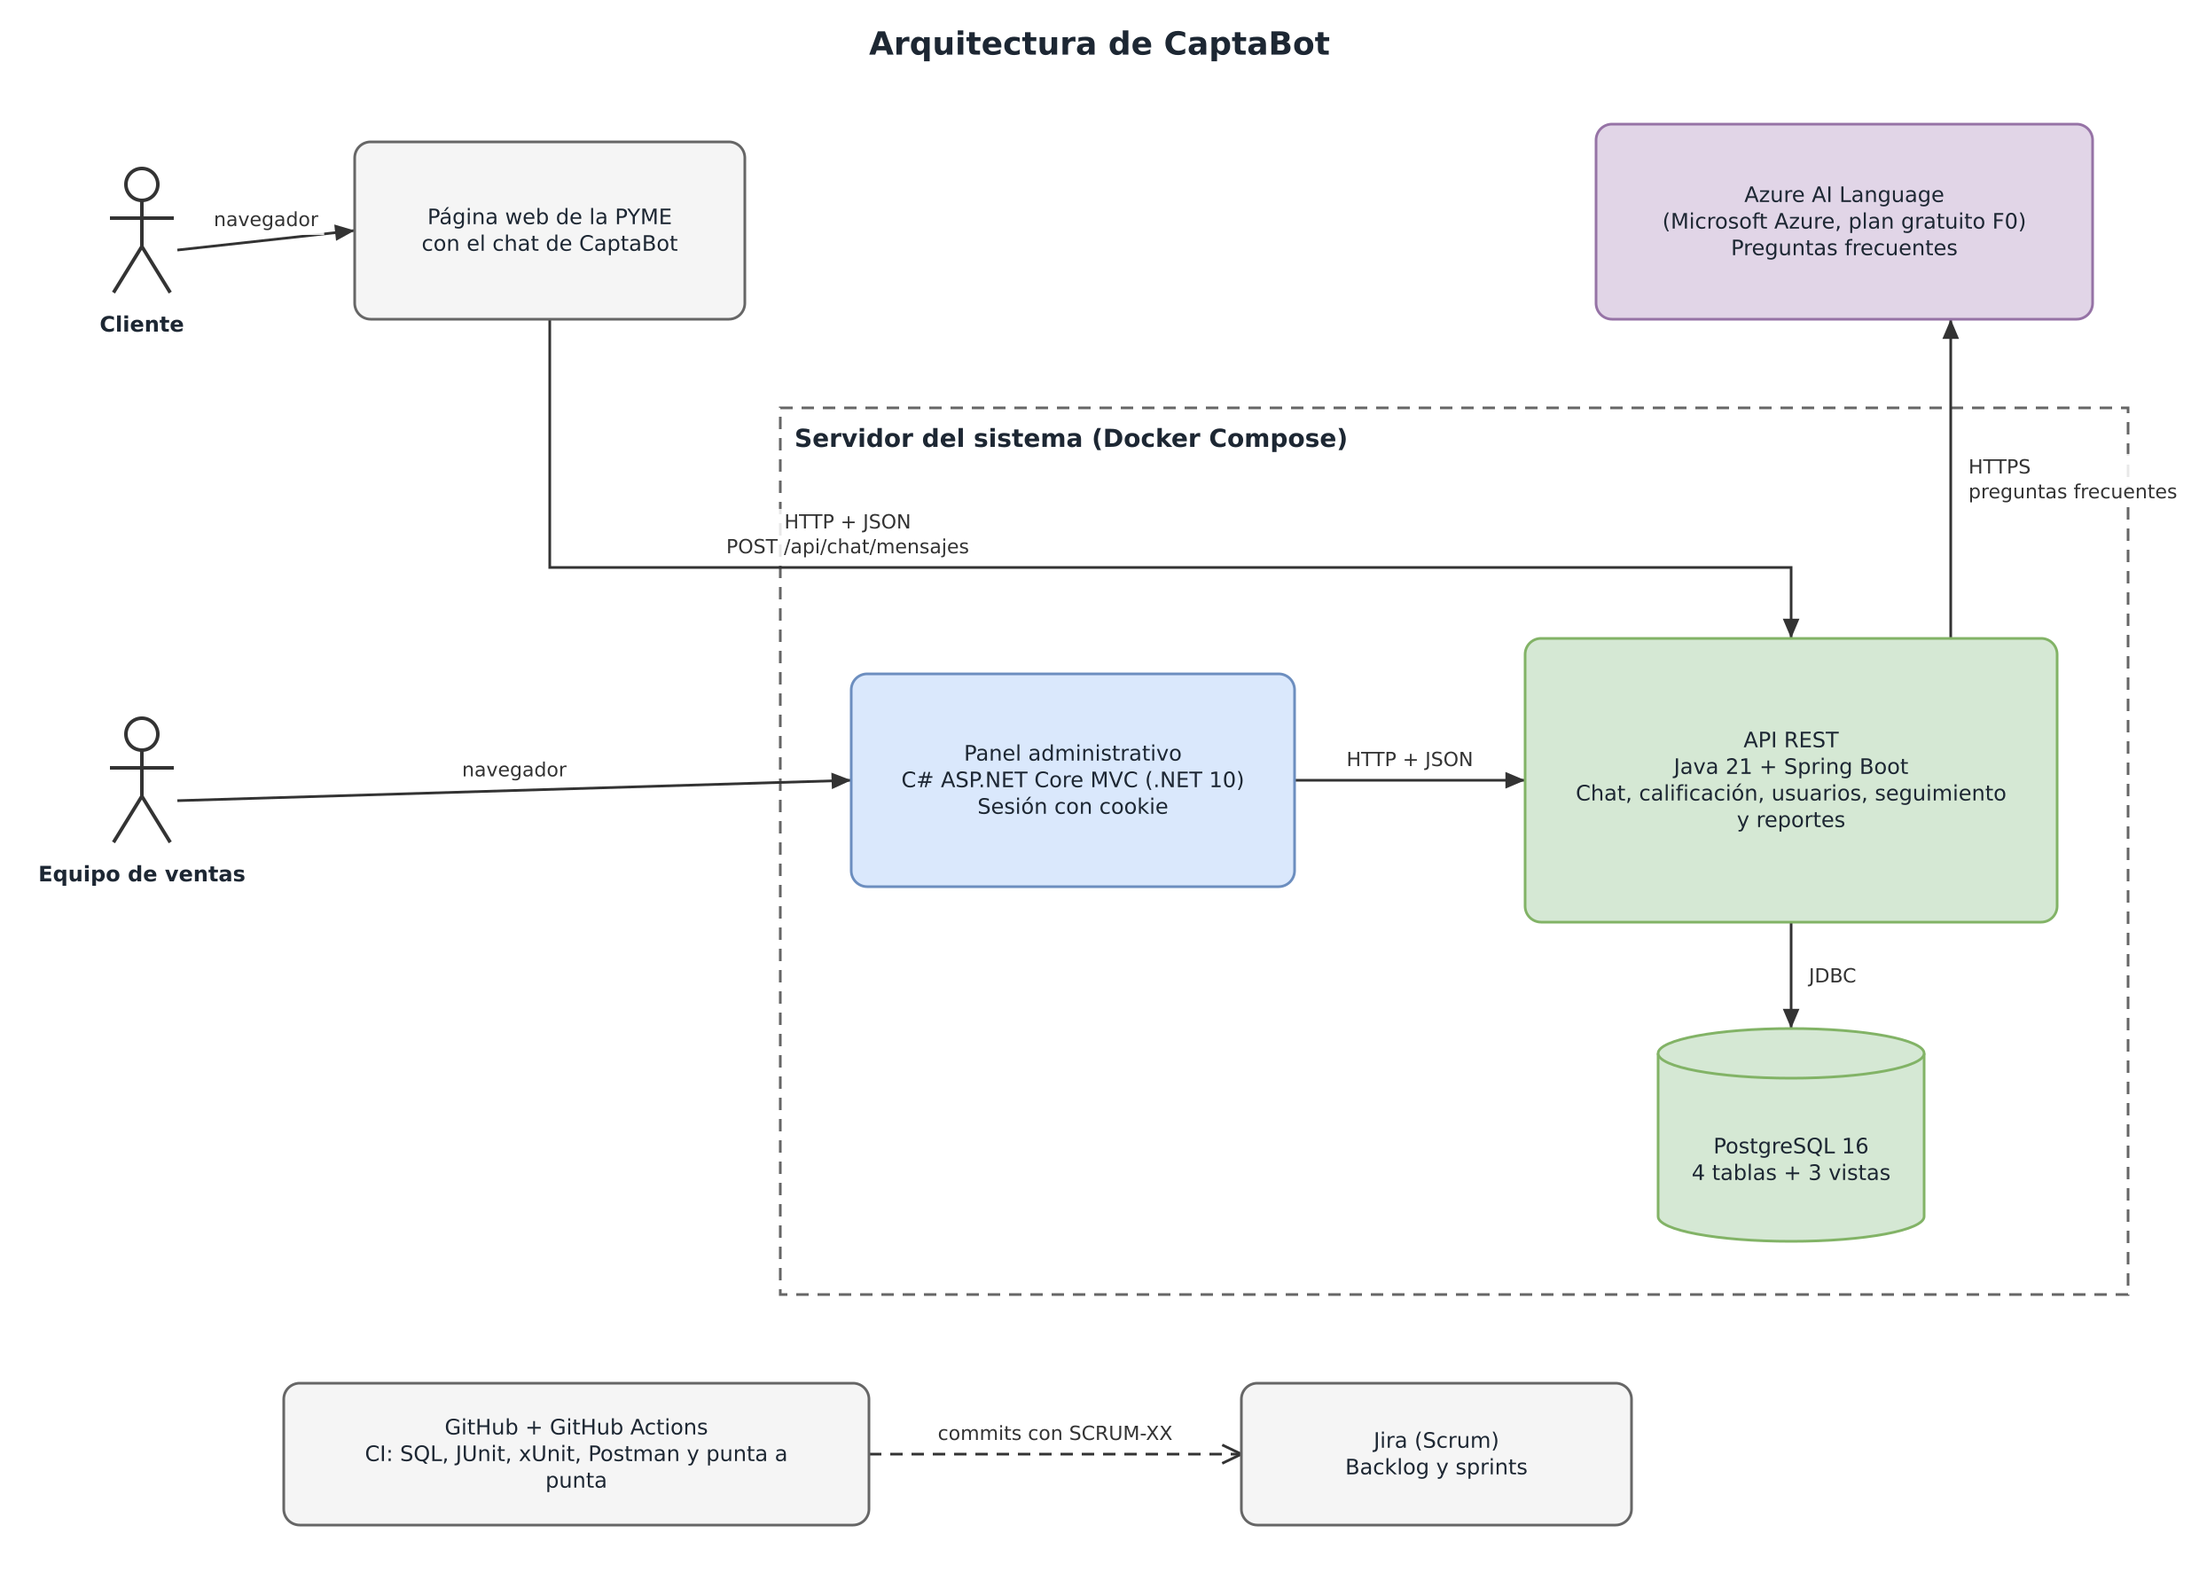
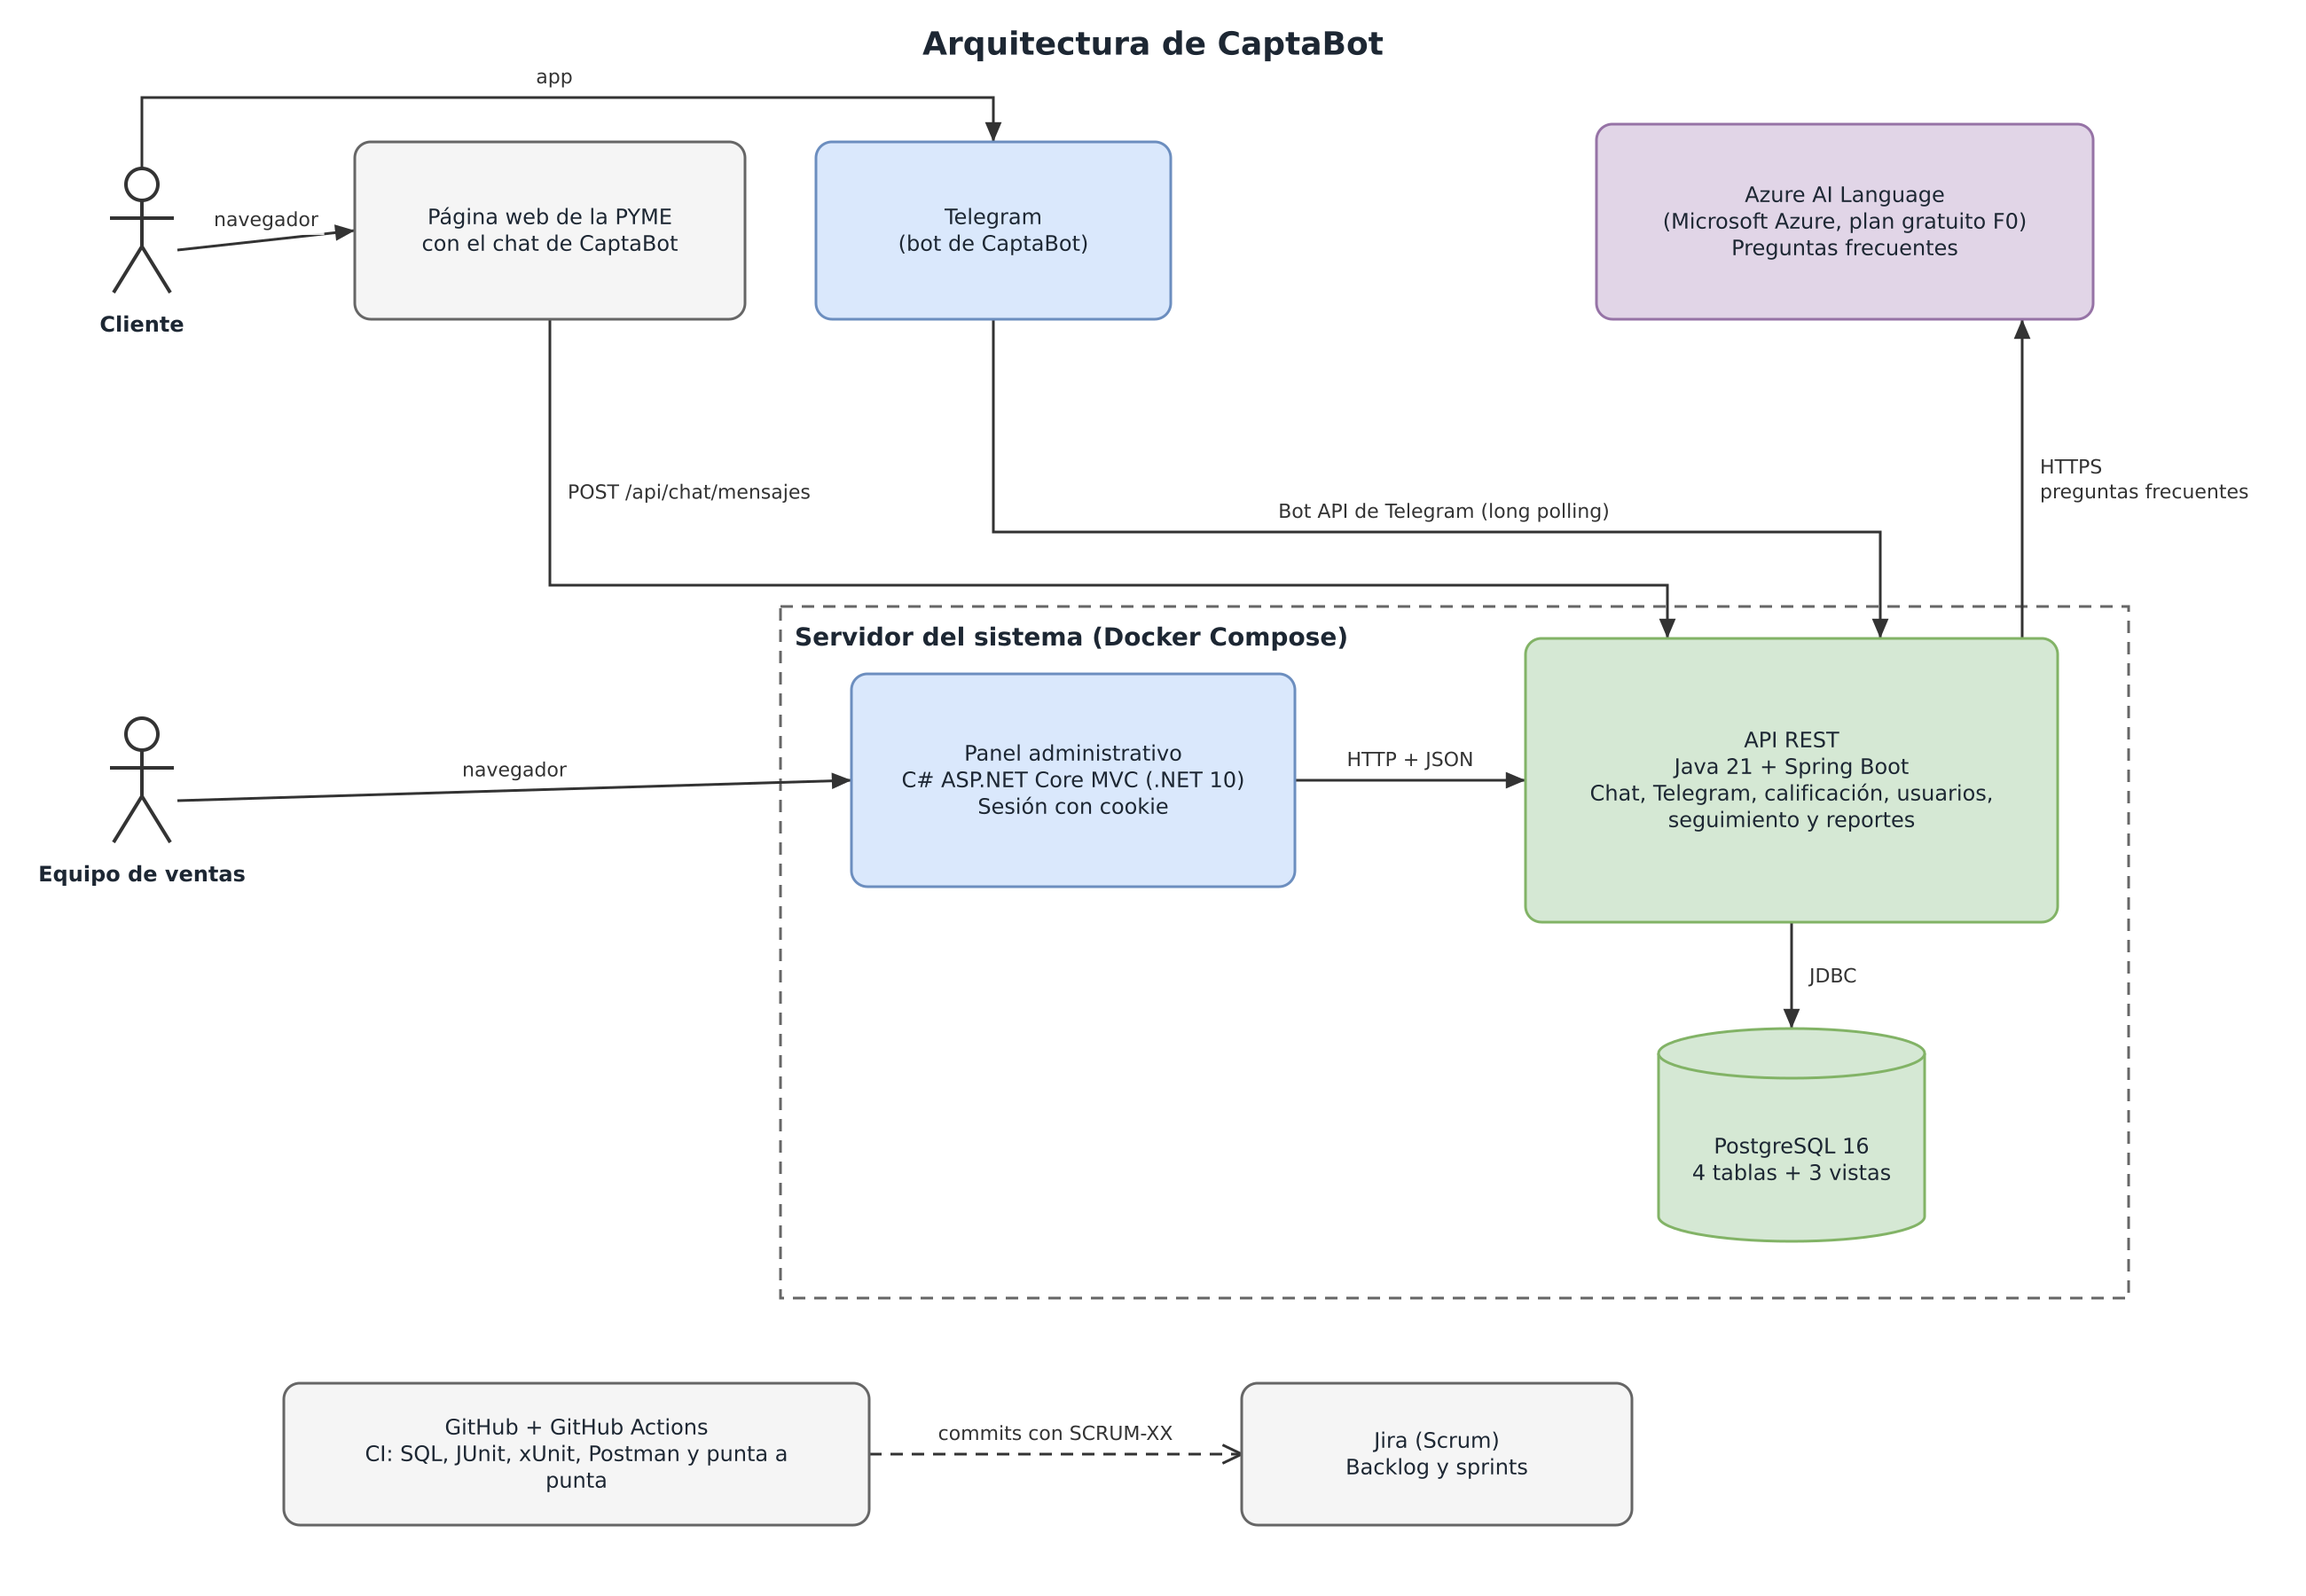
SCRUM-13 Documenta el bot de Telegram y actualiza los diagramas y el plan de pruebas
Claude-Session: https://claude.ai/code/session_01H7kSdfkHfV2igCU9K55eDj

diff --git a/asistente/README.md b/asistente/README.md
@@ -1,4 +1,4 @@
-# Asistente virtual – chat de CaptaBot + Azure AI Language
+# Asistente virtual – chat web, Telegram y Azure AI Language
 
 Responsable: Vladimir Angelino (@DeiosZ). Historias: HU01, HU02, HU04 y HU05 (SCRUM-12, 13, 15 y 16).
 
@@ -8,6 +8,8 @@ El asistente es gratuito de punta a punta:
   conversación está programada en la API (`api/.../chat/ConversacionService.java`) y sigue el diagrama
   `docs/diagramas/flujo-asistente.png`. Cuando el cliente deja sus datos, la API registra y califica al
   prospecto, y este aparece en el panel.
+- **Telegram**: el mismo asistente atiende en un bot de Telegram, con las opciones como botones y un botón
+  para compartir el celular. Los prospectos quedan con el canal `TELEGRAM` en el panel (ver sección 6).
 - **Las preguntas frecuentes** las responde **Azure AI Language** (función *custom question answering*,
   plan gratuito F0). Si Azure no está configurado o no responde, el chat usa su buscador local con las
   mismas respuestas, así la demo nunca se cae.
@@ -111,7 +113,7 @@ Después de cambiarlas, ejecuten `cargar-preguntas.py --reiniciar`.
 
 Y agreguen la dirección de esa página en la variable `CAPTABOT_CHAT_ORIGENES` de la API.
 
-## 5. Cómo responde el chat
+## 5. Cómo responde el chat (web y Telegram)
 
 | El cliente escribe | El chat |
 |---|---|
@@ -123,3 +125,29 @@ Y agreguen la dirección de esa página en la variable `CAPTABOT_CHAT_ORIGENES` 
 
 El chat es público (no pide la clave X-API-Key) porque lo usa el navegador del cliente; solo permite
 registrar prospectos siguiendo la conversación.
+
+## 6. Canal de Telegram (gratis)
+
+1. En Telegram, abran **@BotFather** y envíen `/newbot`. Elijan un nombre (por ejemplo «CaptaBot
+   Demo») y un usuario que termine en `bot` (por ejemplo `captabot_error404_bot`).
+2. BotFather responde con un **token**. Cópienlo en el archivo `.env`:
+
+   ```bash
+   TELEGRAM_BOT_TOKEN=123456789:AA...
+   ```
+
+   El token es como una contraseña: no lo compartan ni lo suban a GitHub.
+3. Reinicien con `docker compose up --build`. En `http://localhost:8080/api/health` debe decir
+   `"telegram": "activo"` y en el log de la API aparece «Bot de Telegram @… escuchando mensajes».
+4. Abran el bot en Telegram y toquen **Iniciar**. Prueben «Quiero cotizar» y, cuando pida el celular, el
+   botón **📱 Compartir mi número**. El prospecto aparece en el panel con el canal «Telegram».
+
+Opcional en @BotFather: `/setdescription` y `/setuserpic` para que el bot se vea profesional, y
+`/setcommands` con `start - Empezar de nuevo`.
+
+**Importante:** el bot recibe los mensajes preguntando a Telegram cada pocos segundos (long polling), así
+que funciona en una laptop sin dirección pública. Pero solo **una** copia de la API puede usar el mismo
+token a la vez: si dos integrantes levantan el sistema con el mismo token, uno de los dos no recibirá
+mensajes. Para probar por separado, que cada uno cree su propio bot de prueba.
+
+El bot solo responde en chats privados (no en grupos) y por ahora solo entiende mensajes de texto.

diff --git a/docs/entregables/plan-de-pruebas.md b/docs/entregables/plan-de-pruebas.md
@@ -60,6 +60,8 @@ Estado: **Auto** = automatizado y en verde en el CI · **Manual** = se prueba a 
 | HU05 | A06 | Escribir un celular inválido o un monto que no es número | Explica el formato y lo vuelve a pedir | Auto |
 | HU01 | A07 | Con Azure configurado, preguntar con otras palabras («¿abren los domingos?») | Responde Azure AI Language; `/api/health` indica `azure-ai-language` | Manual |
 | HU01 | A08 | Azure no responde o no está configurado | El chat responde con el buscador local | Auto |
+| HU02 | A09 | Conversación completa por Telegram, compartiendo el número con el botón | Muestra botones, registra al prospecto con canal TELEGRAM; ignora grupos y stickers | Auto (simulado) |
+| HU02 | A10 | Probar el bot real en Telegram con el token de @BotFather | Responde en Telegram y el prospecto aparece en el panel con canal «Telegram» | Manual |
 | HU06 | U01 | Inicio de sesión correcto | Entra al panel con su rol | Auto |
 | HU06 | U02 | Contraseña incorrecta | Mensaje «Correo o contraseña incorrectos» | Auto |
 | HU06 | U03 | Abrir cualquier página sin sesión | Redirige al inicio de sesión | Auto |
@@ -111,3 +113,4 @@ esperado, resultado obtenido y captura. La corrección se sube en un commit con 
 | Docker Compose | Correcto |
 | Asistente (A01 a A06, A08) | Automatizados con JUnit y en el CI |
 | A07 con Azure AI Language | Pendiente: crear el recurso gratuito en Azure |
+| A10 con el bot real de Telegram | Pendiente: crear el bot con @BotFather |

diff --git a/README.md b/README.md
@@ -47,7 +47,7 @@ o el pull request y aparecerá en la tarea, por ejemplo:
 | Panel administrativo .NET 10 | Listo: inicio de sesión, prospectos, etapas, notas, usuarios y reportes con Excel |
 | Pruebas | JUnit en la API, xUnit en el panel y prueba de punta a punta en cada push |
 | Integración continua | GitHub Actions: BD, API, panel y prueba de punta a punta |
-| Asistente virtual | Listo: chat en la página web con preguntas frecuentes y captación de datos; Azure AI Language opcional (gratis) |
+| Asistente virtual | Listo: chat en la página web y bot de Telegram, con preguntas frecuentes y captación de datos; Azure AI Language opcional (gratis) |
 
 ## Cómo ejecutarlo en local
 
@@ -85,7 +85,7 @@ cd panel/CaptaBot.Panel && dotnet run
 ```
 
 Abran `http://localhost:5080` e inicien sesión con `admin@captabot.pe` / `Demo2026!`.
-La página web de la PYME con el chat queda en `http://localhost:8080`. Para conectar Azure AI Language, sigan `asistente/README.md`.
+La página web de la PYME con el chat queda en `http://localhost:8080`. Para conectar Azure AI Language y el bot de Telegram, sigan `asistente/README.md`.
 
 ## Integración continua
 

diff --git a/api/README.md b/api/README.md
@@ -68,6 +68,8 @@ Si la variable `CAPTABOT_API_KEY` tiene valor, todas las rutas `/api/**` (menos 
 
 Para que Azure AI Language responda las preguntas frecuentes, configuren `AZURE_LANGUAGE_ENDPOINT`, `AZURE_LANGUAGE_KEY` y `AZURE_LANGUAGE_PROYECTO` (ver `asistente/README.md`). Sin ellas, el chat usa su buscador local.
 
+Con `TELEGRAM_BOT_TOKEN`, la API también atiende un bot de Telegram con la misma conversación; los prospectos que llegan por ahí quedan con el canal `TELEGRAM`. `GET /api/health` indica qué motor de preguntas usa y si Telegram está activo.
+
 ## Ejecutar en tu computadora
 
 Requisitos: JDK 21, Maven 3.9 y la base de datos creada (ver `base-datos/README.md`).
